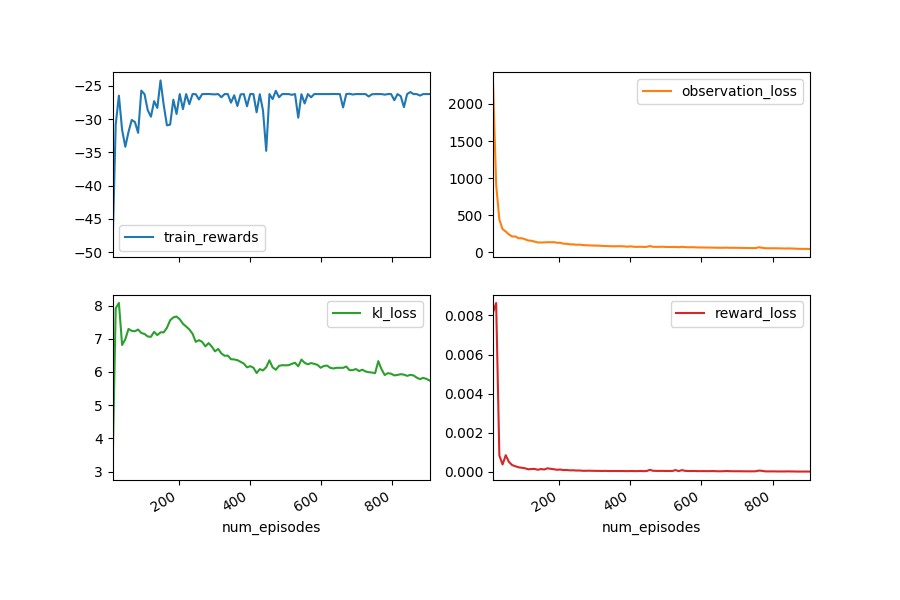
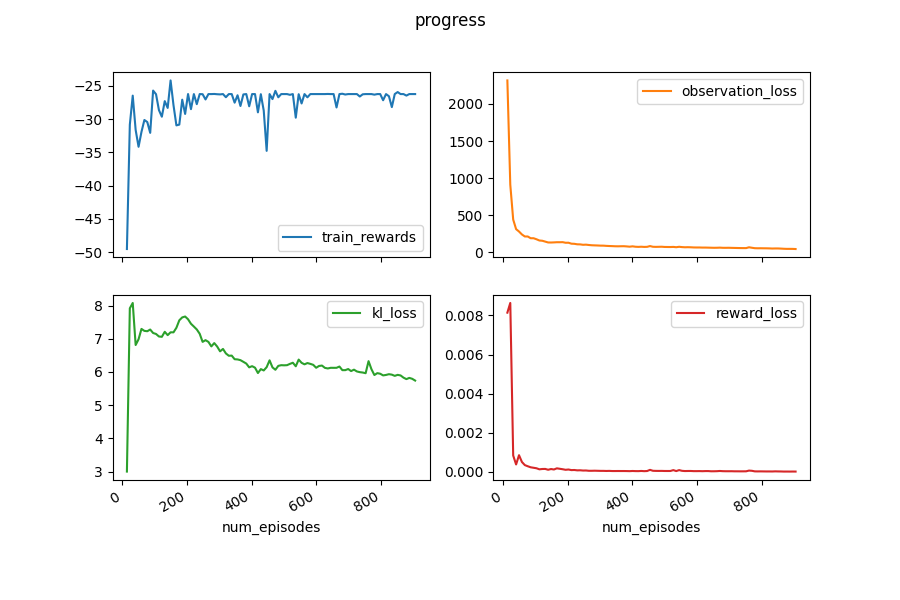
Add title

diff --git a/scripts/progress_to_plot.py b/scripts/progress_to_plot.py
@@ -2,14 +2,14 @@ import pandas as pd
 import matplotlib.pyplot as plt
 import argparse
 
-def progress_to_plat(csv_path, fig_path):
+def progress_to_plat(csv_path, fig_path, title):
     df = pd.read_csv(csv_path)
     # fig, axes = plt.subplots(nrows=2, ncols=2, figsize=(9, 7))
     # df[['num_episodes', 'train_rewards']].plot(x='num_episodes', ax=axes[0, 0])
     # df[['num_episodes', 'observation_loss']].plot(x='num_episodes', ax=axes[0, 1], logy=True)
     # df[['num_episodes', 'kl_loss']].plot(x='num_episodes', ax=axes[1, 0])
     # df[['num_episodes', 'reward_loss']].plot(x='num_episodes', ax=axes[1, 1], logy=True)
-    df[['num_episodes', 'train_rewards', 'observation_loss', 'kl_loss', 'reward_loss']].plot.line(x='num_episodes', subplots=True, layout=(2, 2), figsize=(9, 6))
+    df[['num_episodes', 'train_rewards', 'observation_loss', 'kl_loss', 'reward_loss']].plot.line(title=title, x='num_episodes', subplots=True, layout=(2, 2), figsize=(9, 6))
     # plt.show()
     plt.savefig(fig_path)
     plt.close('all')
@@ -18,7 +18,9 @@ if __name__ == '__main__':
     parser = argparse.ArgumentParser()
     parser.add_argument('-d', '--data', default='/data/progress.csv', type=str)
     parser.add_argument('-f', '--fig', default='/data/plot.png', type=str)
+    parser.add_argument('-t', '--title', default='FoldCloth', type=str)
     args = parser.parse_args()
     csv_path = args.data
     fig_path = args.fig
-    progress_to_plat(csv_path, fig_path)
+    title = args.title
+    progress_to_plat(csv_path, fig_path, title)
